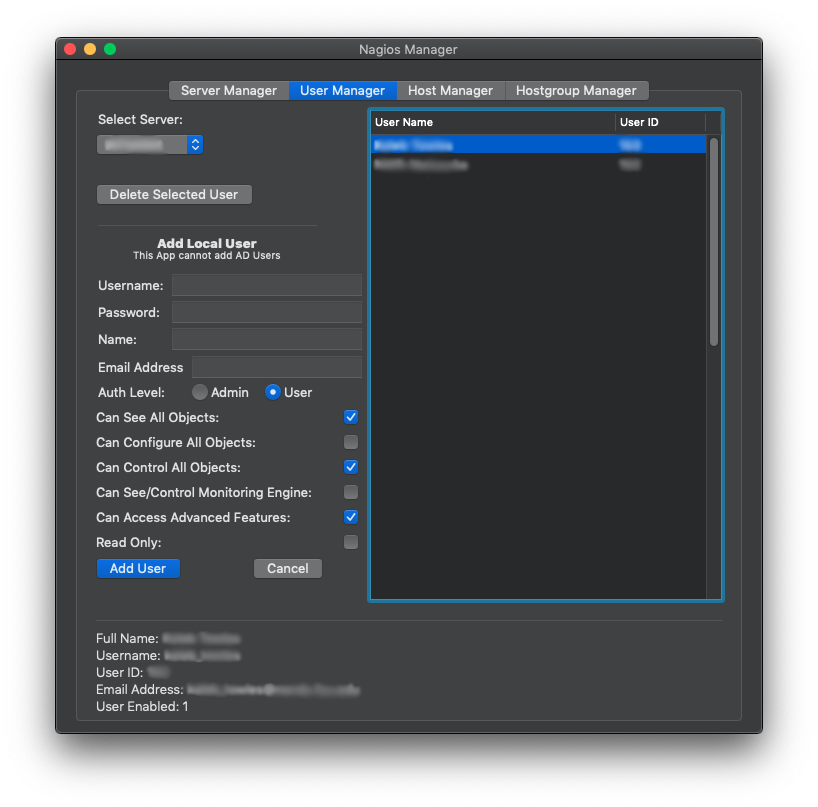
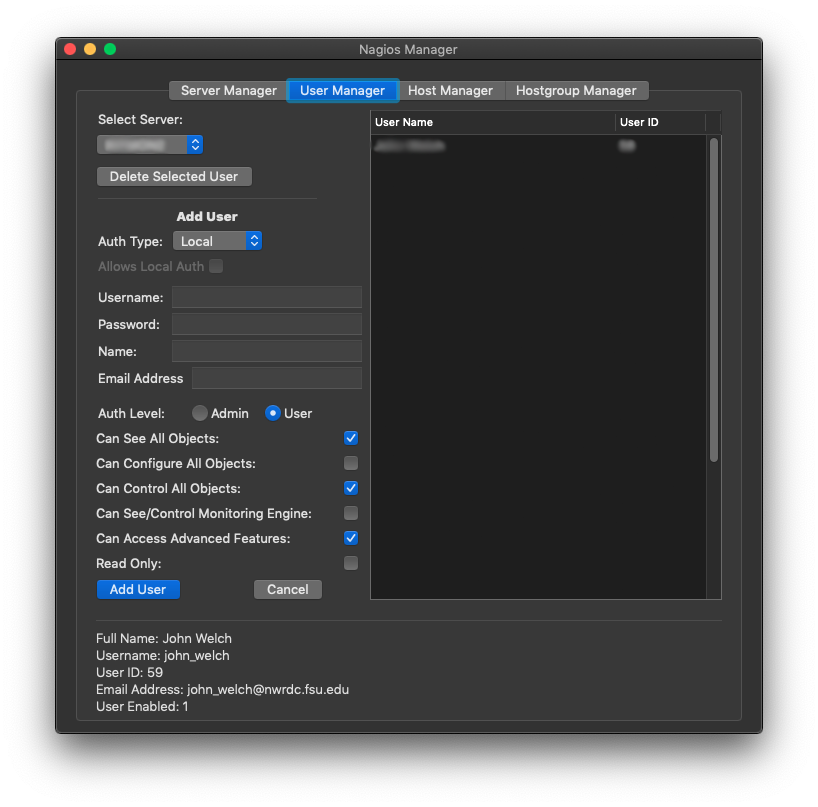
Finished 2.0 release help revisions, 2.0 is done!

Changed region(s): [[0.0917, 0.0929, 0.8863, 0.7745], [0.1834, 0.7745, 0.4584, 0.8674]]

diff --git a/NagiosManager.help/Contents/Resources/en-US.lproj/Page4.html b/NagiosManager.help/Contents/Resources/en-US.lproj/Page4.html
@@ -36,7 +36,7 @@
             </li>
         </ul>
         <p class="Left Normal">
-            <span class="Normal">Please note that due to limitations in the REST API, you can’t update or change a user’s settings from Nagios Manager. Also, if you’re using version 1.8 or earlier, you cannot add Active Directory/LDAP users with Nagios Manager, but you can delete them.&nbsp;</span>
+            <span class="Normal">Please note that due to limitations in the REST API, you can’t update or change a user’s settings from Nagios Manager.&nbsp;</span>
         </p>
         <p class="Left">
             <br />
@@ -195,25 +195,45 @@
             <br />
         </p>
         <p class="Left Normal">
-            <span class="Normal">These can all be changed in the main Nagios web UI, if wanted/needed.</span>
+            <span class="Normal bold">Auth Type</span>
+            <span class="Normal">&nbsp;- This is for use with a Nagios server that was set up in Nagios Manager as having an AD or LDAP external authentication server. If the Nagios server you’re working against was not set up with an AD/LDAP auth server, then this will be locked to “Local” and disable, as that’s the only functional option in that case. If the server has an external auth server function, then you select which one of three options to use here: Local, AD, LDAP. Please make sure the one you pick matches the server setup for the Nagios server you’re working against. If you pick “Local”, that’s all you get. If you pick AD or LDAP, you can have a local auth option, as seen below.&nbsp;</span>
+        </p>
+        <p class="Left Custom2 Normal">
+            <span class="Custom2">IMPORTANT</span>
+            <span class="Normal">: If you are using AD or LDAP, then the Username: field&nbsp;</span>
+            <span class="Normal italic">must</span>
+            <span class="Normal">&nbsp;match the AD or LDAP username for AD/LDAP auth to work.&nbsp;</span>
+        </p>
+        <p class="Left">
+            <br />
+        </p>
+        <p class="Left Normal">
+            <span class="Normal bold">Allows Local Auth</span>
+            <span class="Normal">&nbsp;- This option allows you to create a local password for an account that would normally use AD or LDAP authentication. If the connection to the external auth server is unreliable, this is a good option. It is disabled by default. Note that if this is not enabled, and you choose AD or LDAP as the Auth Type, the Password: field is disabled, since if you’re only using AD or LDAP auth for a user, there is no need to enter a local password.&nbsp;</span>
+        </p>
+        <p class="Left">
+            <br />
         </p>
         <p class="Left Normal">
             <span class="Normal">There are three levels of Nagios user: Admin, Read Only, User. The default setting on application launch is User, with permissions that will allow that user to interact with Nagios in a useful manner sans being an admin.</span>
         </p>
         <ul class="listDisc">
-            <li class="Normal">
+            <li class="Normal bold">
                 <p class="Left Normal">
-                    <span class="Normal">Admin: All permissions enabled save API access, that must be enabled within Nagios itself. Selecting the “Admin” radio button locks out Read Only as an option.&nbsp;</span>
+                    <span class="Normal bold">Admin</span>
+                    <span class="Normal">&nbsp;- All permissions enabled save API access, that must be enabled within Nagios itself. Selecting the “Admin” radio button locks out Read Only as an option.&nbsp;</span>
                 </p>
             </li>
-            <li class="Normal">
+            <li class="Normal bold">
                 <p class="Left Normal">
-                    <span class="Normal">Read Only: Only available if the “User” radio button is selected. Removes all other permissions. Note: As it removes “Can See All Objects”, by default, this user will not be able to actually see any Nagios host or service on the selected server. That will have to be enabled within Nagios itself.</span>
+                    <span class="Normal bold">Read Only</span>
+                    <span class="Normal">&nbsp;- Only available if the “User” radio button is selected. Removes all other permissions. Note: As it removes “Can See All Objects”, by default, this user will not be able to actually see any Nagios host or service on the selected server. That will have to be enabled within Nagios itself.</span>
                 </p>
             </li>
-            <li class="Normal">
+            <li class="Normal bold">
                 <p class="Left Normal">
-                    <span class="Normal">User: The default user level. The default permissions for this are: Can See All Objects:, Can Control All Objects:, Can Access Advanced Features:. For detailed explanation(s) of these permission levels, use the online help within Nagios XI.&nbsp;</span>
+                    <span class="Normal bold">User</span>
+                    <span class="Normal">&nbsp;- The default user level. The default permissions for this are: Can See All Objects:, Can Control All Objects:, Can Access Advanced Features:. For detailed explanation(s) of these permission levels, use the online help within Nagios XI.&nbsp;</span>
                 </p>
             </li>
         </ul>

diff --git a/NagiosManager.help/Contents/Resources/en-US.lproj/Page3.html b/NagiosManager.help/Contents/Resources/en-US.lproj/Page3.html
@@ -175,17 +175,17 @@
                 </p>
             </li>
             <li class="Normal">
-                <p style="margin-left:72.000000pt" class="Left Normal">
+                <p style="margin-left:36.000000pt" class="Left Normal">
                     <span class="Normal">Connection Method - Choose either AD or LDAP. You get one external option per server, AD or LDAP. Not both. If there’s actually a real need for both, I can change that later.</span>
                 </p>
             </li>
             <li class="Normal">
-                <p style="margin-left:72.000000pt" class="Left Normal">
+                <p style="margin-left:36.000000pt" class="Left Normal">
                     <span class="Normal">Security Level - Options are None, TLS, SSL. The value here should always match the value you have set up within the AD/LDAP setup on the specific Nagios server. At this point, you should probably not be using SSL.</span>
                 </p>
             </li>
             <li class="Normal">
-                <p style="margin-left:72.000000pt" class="Left Normal">
+                <p style="margin-left:36.000000pt" class="Left Normal">
                     <span class="Normal">Base DN: the base DN of your AD or LDAP tree, for example, “DC=nagios, DC=com”. Each DC= entry must be separated by a comma</span>
                 </p>
             </li>
@@ -195,12 +195,12 @@
                 </p>
             </li>
             <li class="Normal">
-                <p style="margin-left:72.000000pt" class="Left Normal">
+                <p style="margin-left:36.000000pt" class="Left Normal">
                     <span class="Normal">AD Domain Suffix - this is primarily used for Active Directory, it’s the “new” (Since 2000) “Kerberos” style of domain/user name. So instead of “NAGIOS\john”, it’d be “john@nagios.com”.&nbsp;</span>
                 </p>
             </li>
             <li class="Normal">
-                <p style="margin-left:72.000000pt" class="Left Normal">
+                <p style="margin-left:36.000000pt" class="Left Normal">
                     <span class="Normal">AD Domain Controllers - A comma-delimited list of DNS names and/or IP addresses for your AD/LDAP domain controllers, (DCs). AD setups can have many, many DCs,&nbsp;</span>
                 </p>
             </li>
@@ -210,12 +210,12 @@
                 </p>
             </li>
             <li class="Normal">
-                <p style="margin-left:72.000000pt" class="Left Normal">
+                <p style="margin-left:36.000000pt" class="Left Normal">
                     <span class="Normal">LDAP Host - The IP address or DNS name of the LDAP server you want to use for authentication. Currently, you get one, choose wisely.</span>
                 </p>
             </li>
             <li class="Normal">
-                <p style="margin-left:72.000000pt" class="Left Normal">
+                <p style="margin-left:36.000000pt" class="Left Normal">
                     <span class="Normal">LDAP Port - The numerical port you use to connect to the LDAP Host on. Generically, this is 389 for unsecure connections and 636 for TLS/SSL</span>
                 </p>
             </li>

diff --git a/NagiosManager.help/Contents/Resources/css/dynamic.css b/NagiosManager.help/Contents/Resources/css/dynamic.css
@@ -52,23 +52,23 @@ li.Heading2 {
     margin-top: 0;
     margin-bottom: 0.5em;
 }
-body.Custom0, li.Custom0, span.Custom0 {
+body.Custom2, li.Custom2, span.Custom2 {
     font-family: "HelveticaNeue-Bold","Helvetica Neue",sans-serif;
-    font-size: 12.000000px;
-    color: RGBA(58,58,58,1.000000);
+    font-size: 14.000000px;
+    color: RGBA(252,1,7,1.000000);
 }
-span.Custom0_link  {
+span.Custom2_link  {
     font-family: "HelveticaNeue-Bold","Helvetica Neue",sans-serif;
-    font-size: 12.000000px;
+    font-size: 14.000000px;
     color: #0000ff;
 }
-p.Custom0 {
+p.Custom2 {
     margin-top: 0;
-    margin-bottom: 0.0px;
+    margin-bottom: 7.0px;
 }
-li.Custom0 {
+li.Custom2 {
     margin-top: 0;
-    margin-bottom: 0.0em;
+    margin-bottom: 0.5em;
 }
 body.Heading1, li.Heading1, span.Heading1 {
     font-family: "HelveticaNeue-Light","Helvetica Neue",sans-serif;
@@ -108,6 +108,24 @@ p.Custom1 {
     margin-bottom: 0.0px;
 }
 li.Custom1 {
+    margin-top: 0;
+    margin-bottom: 0.0em;
+}
+body.Custom0, li.Custom0, span.Custom0 {
+    font-family: "HelveticaNeue-Bold","Helvetica Neue",sans-serif;
+    font-size: 12.000000px;
+    color: RGBA(58,58,58,1.000000);
+}
+span.Custom0_link  {
+    font-family: "HelveticaNeue-Bold","Helvetica Neue",sans-serif;
+    font-size: 12.000000px;
+    color: #0000ff;
+}
+p.Custom0 {
+    margin-top: 0;
+    margin-bottom: 0.0px;
+}
+li.Custom0 {
     margin-top: 0;
     margin-bottom: 0.0em;
 }
